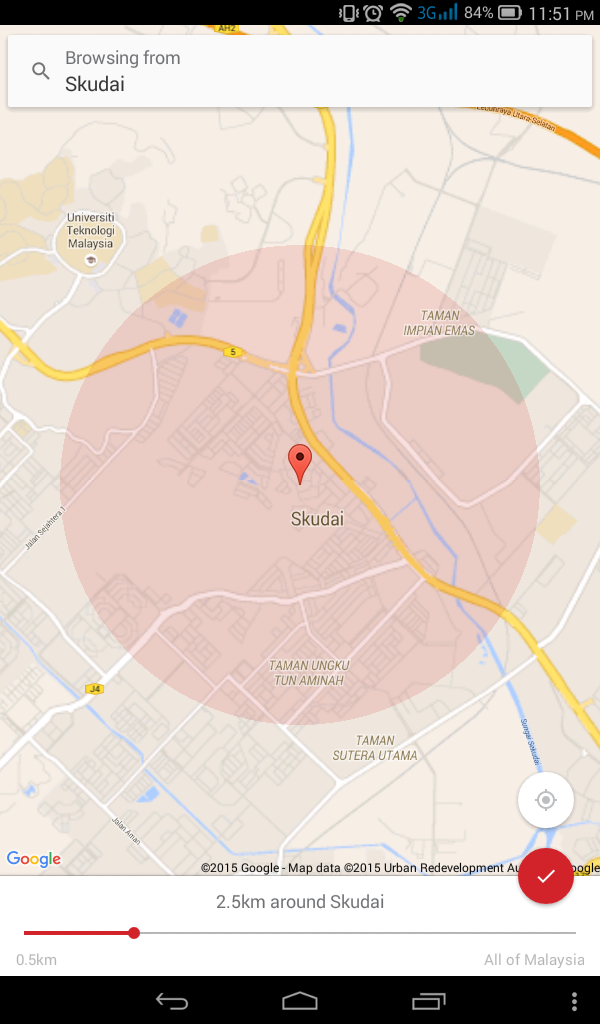
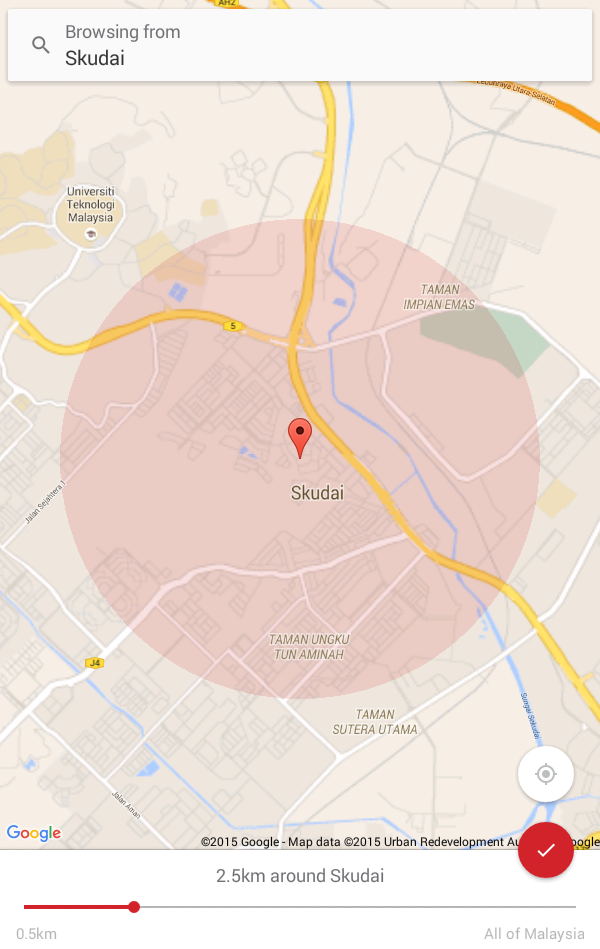
map, filter-menu

diff --git a/www/templates/filter_menu.html b/www/templates/filter_menu.html
@@ -1,0 +1,65 @@
+<ion-side-menus enable-menu-with-back-views="false">
+	  <!-- Center content -->
+	  <ion-side-menu-content>
+	  	<!--nav bar for menu-->
+	  	<ion-nav-bar class="bar-light">
+	  		<ion-nav-back-button class="button-icon icon ion-android-arrow-back"></ion-nav-back-button>
+	  		<ion-nav-buttons side="left">
+	  			<button class="button button-icon icon ion-android-options" menu-toggle="left"></button>
+	  		</ion-nav-buttons>
+	  		<ion-nav-buttons side="right">
+	  			<button class="button button-icon icon ion-android-search"></button>
+	  		</ion-nav-buttons>
+	  	</ion-nav-bar>
+	  	<!--menuContent, will render ion-view on other page-->
+	  	<ion-nav-view name="filter-list"></ion-view>
+	  </ion-side-menu-content>
+	
+	  <!-- Left menu -->
+	  <ion-side-menu side="left">
+	  	<ion-header-bar class="bar-light">
+	  		<h2>Filter</h2>
+	  	</ion-header-bar>
+	  	<ion-content>
+	  		<ion-list>
+		  		<div class="item item-divider item-icon-right">
+				    Categories
+				    <i class="icon ion-android-arrow-dropdown"></i>
+			  	</div>
+				<ion-item menu-close href="#">
+					Cats 
+				</ion-item>
+				<ion-item menu-close href="#" >
+					Hamster
+				</ion-item>
+				<ion-item menu-close href="#">
+					...
+				</ion-item>
+				<ion-item menu-close href="#">
+					Exotic
+				</ion-item>
+
+				<div class="item item-divider item-icon-right">
+				    Species
+				    <i class="icon ion-android-arrow-dropdown"></i>
+			  	</div>
+				<ion-item menu-close href="#">
+					Persian cat 
+				</ion-item>
+				<ion-item menu-close href="#">
+					... 
+				</ion-item>
+				<ion-item menu-close href="#">
+					British shorthair
+				</ion-item>
+				
+				<div class="item item-divider item-icon-left">
+				    Location
+			  	</div>
+			  	<ion-item menu-close href="#">
+					Set Finding Location
+				</ion-item>
+				
+	  		</ion-list>
+	  	</ion-content>
+	  </ion-side-menu>

diff --git a/www/js/app.js b/www/js/app.js
@@ -79,14 +79,31 @@ angular.module('starter', ['ionic', 'starter.controllers', 'starter.services'])
     }
   })
 
-  .state('list', {
-    url: '/list',
-    templateUrl: 'templates/list.html'
-  })
-
   .state('detail', {
     url: '/detail',
     templateUrl: 'templates/detail.html'
+  })
+
+  .state('map', {
+    url: '/map',
+    templateUrl: 'templates/map.html'
+  })
+
+
+  .state('filter', {
+    url: '/filter',
+    abstract: true,
+    templateUrl: 'templates/filter_menu.html'
+  })
+
+  .state('filter.list', {
+    url: '/list',
+    views: {
+      'filter-list': {
+        templateUrl: 'templates/list.html',
+        
+      }
+    }
   })
 
   // if none of the above states are matched, use this as the fallback

diff --git a/www/templates/list.html b/www/templates/list.html
@@ -1,7 +1,7 @@
-<ion-view view-title="List">
+<ion-view view-title="">
 	<ion-header-bar align-title="left" class="bar-light">
     <div class="buttons">
-      <button class="button button-icon icon ion-android-funnel" ng-click=""></button>
+      <button class="button button-icon icon ion-android-options" ng-click=""></button>
     </div>
     <h1 class="title"></h1>
     <div class="buttons">

diff --git a/www/templates/map.html b/www/templates/map.html
@@ -1,0 +1,7 @@
+<ion-view>
+    <ion-content>
+		<div>
+			<img src="img/map.png" style="width:100%;">
+		</div>	
+	</ion-content>
+</ion-view>	
